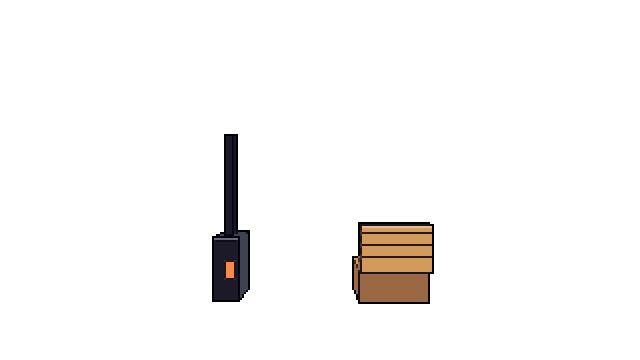
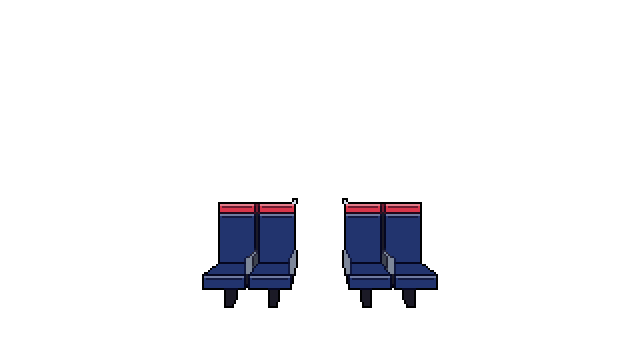
Fix du train (un autre arrive)

Changed region(s): [[0.3125, 0.3667, 0.4688, 0.8556], [0.5312, 0.55, 0.6875, 0.8556]]

diff --git a/index.html b/index.html
@@ -31,36 +31,37 @@
       </div>
 
       <!-- Wagons : calques empilés de l'arrière vers l'avant, un seul wagon visible à la fois -->
-      <!-- Wagon 01 : les élèves, tous tournés vers le spectateur.
-           Les bancs sont des calques séparés (banc-01 au fond, banc-02 au milieu, banc-03 devant) :
-           les voyageurs d'une rangée se placent juste après le calque de leur banc.
+      <!-- Wagon 01 : un TER d'aujourd'hui (inspiré des trains liO), les élèves tous tournés vers le spectateur.
+           On est debout au milieu de la voiture : dans cette moitié, les sièges regardent vers nous.
+           Chaque rangée de sièges est un calque séparé (banc-01 au fond, banc-02 au milieu, banc-03 devant) :
+           les voyageurs d'une rangée se placent juste après le calque de leurs sièges.
            Pensées provisoires (Lorem ipsum) en attendant les vraies. -->
-      <section class="wagon" data-titre="Lorem ipsum">
+      <section class="wagon" data-titre="Lorem ipsum" data-ambiance="led">
         <img class="wagon__calque" src="assets/images/commun/passage.png" alt="">
         <img class="wagon__calque wagon__porte wagon__porte--gauche" src="assets/images/commun/porte-gauche.png" alt="">
         <img class="wagon__calque wagon__porte wagon__porte--droite" src="assets/images/commun/porte-droite.png" alt="">
-        <img class="wagon__calque" src="assets/images/wagon-01/interieur.png" alt="Intérieur d'une voiture en bois, banquettes tournées vers le spectateur">
+        <img class="wagon__calque" src="assets/images/wagon-01/interieur.png" alt="Intérieur d'un TER moderne : grandes fenêtres, sièges bleus à appuie-tête rouges tournés vers le spectateur">
         <img class="wagon__calque" src="assets/images/wagon-01/banc-01.png" alt="">
         <img class="wagon__calque" src="assets/images/wagon-01/banc-02.png" alt="">
         <!-- Rangée du milieu -->
-        <img class="wagon__calque wagon__personnage" src="assets/images/wagon-01/personnage-01.png" alt="Lino, assis sur la banquette (personnage provisoire)" data-nom="Lino" data-pensee="Lorem ipsum dolor sit amet, consectetur adipiscing elit.">
+        <img class="wagon__calque wagon__personnage" src="assets/images/wagon-01/personnage-01.png" alt="Lino, assis dans son siège (personnage provisoire)" data-nom="Lino" data-pensee="Lorem ipsum dolor sit amet, consectetur adipiscing elit.">
         <!-- Joaquim : sprite dessiné par Lino, posé tel quel (sans retouche ni mise à l'échelle) -->
-        <img class="wagon__calque wagon__personnage" src="assets/images/wagon-01/personnage-02.png" alt="Joaquim, assis sur la banquette, un livre bleu sur les genoux" data-nom="Joaquim" data-pensee="Ut enim ad minim veniam, quis nostrud.">
-        <img class="wagon__calque wagon__personnage" src="assets/images/wagon-01/personnage-03.png" alt="Inas, assis sur la banquette (personnage provisoire)" data-nom="Inas" data-pensee="Sed do eiusmod tempor incididunt ut labore.">
+        <img class="wagon__calque wagon__personnage" src="assets/images/wagon-01/personnage-02.png" alt="Joaquim, assis dans son siège, un livre bleu sur les genoux" data-nom="Joaquim" data-pensee="Ut enim ad minim veniam, quis nostrud.">
+        <img class="wagon__calque wagon__personnage" src="assets/images/wagon-01/personnage-03.png" alt="Inas, assis dans son siège (personnage provisoire)" data-nom="Inas" data-pensee="Sed do eiusmod tempor incididunt ut labore.">
         <!-- Erine : sprite dessiné par Inas, posé tel quel. Elle ne parle qu'en PHP (bulle de code) -->
-        <img class="wagon__calque wagon__personnage" src="assets/images/wagon-01/personnage-04.png" alt="Erine, longs cheveux bruns, pull bleu marine, assise sur la banquette" data-nom="Erine" data-langage="php" data-pensee="<?php echo &quot;Lorem ipsum dolor sit amet&quot;; ?>">
+        <img class="wagon__calque wagon__personnage" src="assets/images/wagon-01/personnage-04.png" alt="Erine, longs cheveux bruns, pull bleu marine, assise dans son siège" data-nom="Erine" data-langage="php" data-pensee="<?php echo &quot;Lorem ipsum dolor sit amet&quot;; ?>">
         <img class="wagon__calque" src="assets/images/wagon-01/banc-03.png" alt="">
         <!-- Rangée de devant, coupée par le bas de l'écran -->
-        <img class="wagon__calque wagon__personnage" src="assets/images/wagon-01/personnage-05.png" alt="Lilian, assis sur la banquette (personnage provisoire)" data-nom="Lilian" data-pensee="Duis aute irure dolor in reprehenderit.">
-        <img class="wagon__calque wagon__personnage" src="assets/images/wagon-01/personnage-06.png" alt="Raphaël, assis sur la banquette (personnage provisoire)" data-nom="Raphaël" data-pensee="Excepteur sint occaecat cupidatat non proident.">
-        <img class="wagon__calque wagon__personnage" src="assets/images/wagon-01/personnage-07.png" alt="Liku, assis sur la banquette (personnage provisoire)" data-nom="Liku" data-pensee="Nemo enim ipsam voluptatem quia voluptas sit.">
-        <img class="wagon__calque wagon__personnage" src="assets/images/wagon-01/personnage-08.png" alt="Alio, assis sur la banquette (personnage provisoire)" data-nom="Alio" data-pensee="Quis autem vel eum iure reprehenderit.">
+        <img class="wagon__calque wagon__personnage" src="assets/images/wagon-01/personnage-05.png" alt="Lilian, assis dans son siège (personnage provisoire)" data-nom="Lilian" data-pensee="Duis aute irure dolor in reprehenderit.">
+        <img class="wagon__calque wagon__personnage" src="assets/images/wagon-01/personnage-06.png" alt="Raphaël, assis dans son siège (personnage provisoire)" data-nom="Raphaël" data-pensee="Excepteur sint occaecat cupidatat non proident.">
+        <img class="wagon__calque wagon__personnage" src="assets/images/wagon-01/personnage-07.png" alt="Liku, assis dans son siège (personnage provisoire)" data-nom="Liku" data-pensee="Nemo enim ipsam voluptatem quia voluptas sit.">
+        <img class="wagon__calque wagon__personnage" src="assets/images/wagon-01/personnage-08.png" alt="Alio, assis dans son siège (personnage provisoire)" data-nom="Alio" data-pensee="Quis autem vel eum iure reprehenderit.">
       </section>
 
       <!-- Wagon 02 : voiture-salon de 1re classe d'un train à vapeur (vers 1900).
            Trois copies de la fumée, décalées dans le temps par main.js, pour un défilement continu.
            Les lueurs des lampes sont posées sur l'intérieur, sous les voyageurs. -->
-      <section class="wagon" data-titre="Le Salon à vapeur">
+      <section class="wagon" data-titre="Le Salon à vapeur" data-ambiance="gaz">
         <img class="wagon__calque wagon__fumee" src="assets/images/wagon-02/fumee.png" alt="">
         <img class="wagon__calque wagon__fumee" src="assets/images/wagon-02/fumee.png" alt="">
         <img class="wagon__calque wagon__fumee" src="assets/images/wagon-02/fumee.png" alt="">

diff --git a/js/main.js b/js/main.js
@@ -175,6 +175,8 @@ function afficherWagon(index) {
   });
   const portes = trouverPortes(wagons[index]);
   gsap.set([portes.gauche, portes.droite], { xPercent: 0 });
+  // Lumière du wagon (voir .scene[data-ambiance] dans style.css)
+  scene.dataset.ambiance = wagons[index].dataset.ambiance || "";
   // Annule le zoom du trajet précédent
   gsap.set(decor, { scale: 1 });
   wagonActuel = index;
@@ -628,8 +630,14 @@ function secouer() {
 }
 
 // Scintillement bref et irrégulier de la lumière, puis on reprogramme le suivant.
+// Les LED d'un train d'aujourd'hui ne scintillent pas : rien dans un wagon data-ambiance="led".
 function scintiller() {
-  gsap.timeline({ onComplete: scintiller, delay: gsap.utils.random(SCINTILLEMENT_MIN, SCINTILLEMENT_MAX) })
+  const delai = gsap.utils.random(SCINTILLEMENT_MIN, SCINTILLEMENT_MAX);
+  if (scene.dataset.ambiance === "led") {
+    gsap.delayedCall(delai, scintiller);
+    return;
+  }
+  gsap.timeline({ onComplete: scintiller, delay: delai })
     .to(lumiere, { opacity: 0.4, duration: 0.06, ease: "steps(1)" })
     .to(lumiere, { opacity: 1, duration: 0.06, ease: "steps(1)" })
     .to(lumiere, { opacity: 0.6, duration: 0.05, ease: "steps(1)" })

diff --git a/css/style.css b/css/style.css
@@ -270,12 +270,27 @@ img {
   opacity: 0;
 }
 
-/* Lumière d'ambiance : reflet chaud et bords légèrement assombris */
+/* Lumière propre à chaque wagon (data-ambiance sur la section, recopié sur la scène par main.js).
+   LED d'un TER : lumière blanche froide qui tombe du plafond et jour qui entre par les fenêtres,
+   sans scintillement. Lampes à gaz (vers 1900) : lumière chaude. */
+.scene[data-ambiance="led"] {
+  --couleur-lumiere: rgba(235, 245, 255, 0.16);
+  --couleur-jour: rgba(255, 255, 240, 0.10);
+  --couleur-vignette: rgba(27, 26, 38, 0.15);
+}
+
+.scene[data-ambiance="gaz"] {
+  --couleur-lumiere: rgba(255, 190, 100, 0.10);
+}
+
+/* Lumière d'ambiance : reflet venu du plafond, jour des fenêtres sur les côtés (si défini),
+   bords légèrement assombris */
 .lumiere {
   position: absolute;
   inset: 0;
   background:
     radial-gradient(ellipse at 50% 0%, var(--couleur-lumiere), transparent 60%),
+    linear-gradient(90deg, var(--couleur-jour, transparent), transparent 30%, transparent 70%, var(--couleur-jour, transparent)),
     radial-gradient(ellipse at 50% 50%, transparent 60%, var(--couleur-vignette));
   pointer-events: none;
 }

diff --git a/DOCUMENTATION.md b/DOCUMENTATION.md
@@ -25,6 +25,7 @@ Des personnages sont assis dans le wagon. Selon l'architecture du wagon, on les 
 | Clic ou tap ailleurs, ou touche Échap | La bulle disparaît |
 
 - Une seule bulle à la fois. Elle disparaît pendant les changements de wagon.
+- Lumière par wagon : `data-ambiance` sur la section (`led` pour le TER : blanc froid, jour qui entre par les côtés, aucun scintillement ; `gaz` pour le salon 1900 : lumière chaude qui scintille). main.js la recopie sur `.scene`, le CSS adapte `.lumiere`.
 - Pendant qu'une pensée est ouverte, les autres voyageurs du wagon sont légèrement assombris (classe `wagon--lecture` sur la section, filtre `--filtre-retrait` dans le CSS) : l'oeil va directement à celui qu'on lit.
 - La bulle est un nuage pixel art (`assets/images/interface/bulle-cadre.png`, découpé en 9 morceaux par le CSS) relié à la tête par deux petites bulles (`bulle-queue.png`). Elle affiche le prénom du personnage (`data-nom`) puis sa pensée, écrite lettre par lettre.
 - Le survol est détecté au pixel près : seuls les pixels visibles du calque du personnage comptent, pas le rectangle de l'image.
@@ -62,7 +63,7 @@ Règles :
 - Pendant une animation, les nouvelles actions sont ignorées (pas de file d'attente).
 - Au dernier wagon, la porte est verrouillée : elle tremble légèrement au lieu de s'ouvrir.
 - Au premier wagon, le bouton "Arrière" est désactivé ; au dernier, le bouton "Suivant" l'est aussi.
-- Placement des voyageurs : deux voyageurs côte à côte ne doivent pas se chevaucher de plus de quelques pixels, et personne ne doit cacher la porte du fond (x 288 à 352). Les sprites ne sont jamais redimensionnés : pour gagner de la place à l'écran, on avance la rangée vers la caméra (wagons 01 et 02 : rangée du milieu en profondeur 2,0, rangée de devant en 1,2 à 1,25).
+- Placement des voyageurs : deux voyageurs côte à côte ne doivent pas se chevaucher de plus de quelques pixels, et personne ne doit cacher la porte du fond (x 288 à 352). Les sprites ne sont jamais redimensionnés : pour gagner de la place à l'écran, on avance la rangée vers la caméra (wagons 01 et 02 : rangée du milieu en profondeur 2,0, rangée de devant en 1,2 à 1,25). Wagon 01 : chaque élève est au centre de son siège (`SIEGES_TER` dans le générateur, x 0,6 et 1,15).
 - Prévu plus tard (pas maintenant) : avancer progressivement dans l'allée, plusieurs crans de molette avant d'atteindre la porte.
 
 ---
@@ -328,7 +329,7 @@ L'ordre de ce tableau est l'ordre du train.
 
 | N° | Dossier | Architecture (placeholder) | Histoire | Couleurs propres | Responsable | État |
 |---|---|---|---|---|---|---|
-| 01 | `wagon-01` | Voiture en bois clair (placeholder) : banquettes en bois toutes tournées vers le spectateur (rangée du milieu, rangée de devant à dossier bas, coupée par le bas de l'écran : on y voit surtout les têtes), poêle à charbon, toit à lanterneau, lampes suspendues. Bancs en calques séparés (`banc-01` à `banc-03`). Les 8 élèves : au milieu Lino, Joaquim, Inas et Erine ; devant Lilian, Raphaël, Liku et Alio | Placeholder (Lorem ipsum), futur wagon MMI | aucune en plus de la palette | à définir | Joaquim et Erine dessinés à la main, les 6 autres provisoires (variantes de Joaquim) |
+| 01 | `wagon-01` | TER régional d'aujourd'hui, inspiré des trains liO d'Occitanie (sans logo) : parois blanches, une baie vitrée par rangée de sièges (coins arrondis, tablette, trumeaux entre deux baies), deux bandes LED continues au plafond au-dessus des porte-bagages, porte-bagages en verre dépoli vus par en dessous (au-dessus de l'oeil, donc sans bagages visibles), écran d'information et boutons d'ouverture à côté de la porte, sièges individuels bleu nuit à appuie-tête rouges en 2 + 2. On est debout au milieu de la voiture : comme dans un vrai TER, les sièges de cette moitié regardent vers le milieu, donc vers nous. Trois rangées en calques séparés (`banc-01` au fond, vide ; `banc-02` au milieu ; `banc-03` devant, coupée par le bas de l'écran, dossier un peu plus bas pour laisser voir la rangée du milieu). Les 8 élèves : au milieu Lino, Joaquim, Inas et Erine ; devant Lilian, Raphaël, Liku et Alio | Placeholder (Lorem ipsum), futur wagon MMI | aucune en plus de la palette | à définir | Joaquim et Erine dessinés à la main, les 6 autres provisoires (variantes de Joaquim) |
 | 02 | `wagon-02` | Voiture-salon de 1re classe d'un train à vapeur (vers 1900) : voûte en acajou à caissons, filets de laiton, fenêtres cintrées à rideaux de velours et lambrequins, appliques et lampes à gaz, fauteuils pivotants de velours capitonnés tournés vers le spectateur, guéridons à nappe blanche, tapis d'Orient, tableaux au mur du fond. Dehors, la fumée de la locomotive passe devant les fenêtres. Les 5 professeurs en tenue 1900 : Mr Blanco (melon), Mr Bernard (haut-de-forme, monocle), Mme De velder (chapeau à plume), Mme Pitot (chignon), Mr Gassin (canotier, au premier plan) | Le Salon à vapeur (pensées en Lorem ipsum) | acajou `#7a3b2e`, acajou sombre `#47212a`, laiton `#c98f3e`, velours `#b3263f`, velours prune `#5e1f45` | à définir | illustration v2 (DA Joaquim), professeurs provisoires (variantes de Joaquim) |
 | 03 | `wagon-03` | Voiture Corail (années 1980) : rangées de sièges orange tournés vers la porte, têtières blanches, néons. Voyageurs de dos, tête au-dessus des dossiers | Placeholder (Consectetur) | aucune | à définir | placeholder |
 | 04 | `wagon-04` | Train du futur : sièges coques le long des parois, plafond arrondi, bandes lumineuses cyan, grandes baies. Voyageurs de côté | Placeholder (Adipiscing elit) | aucune | à définir | placeholder |
